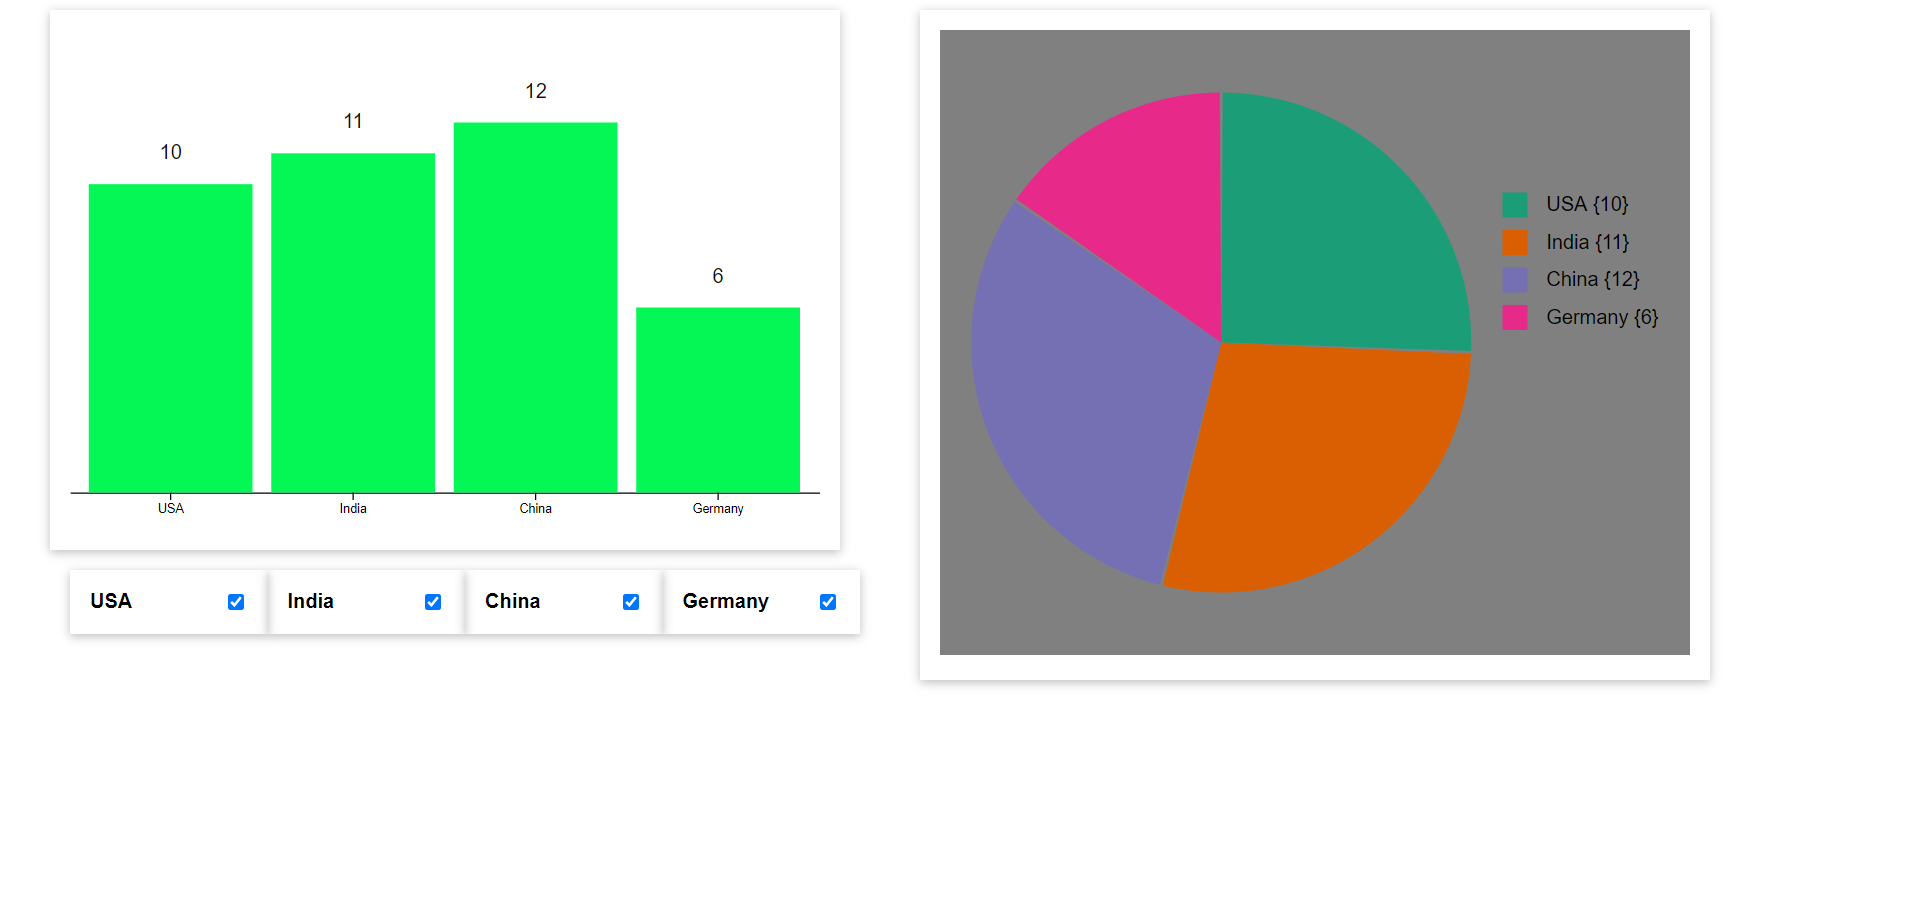
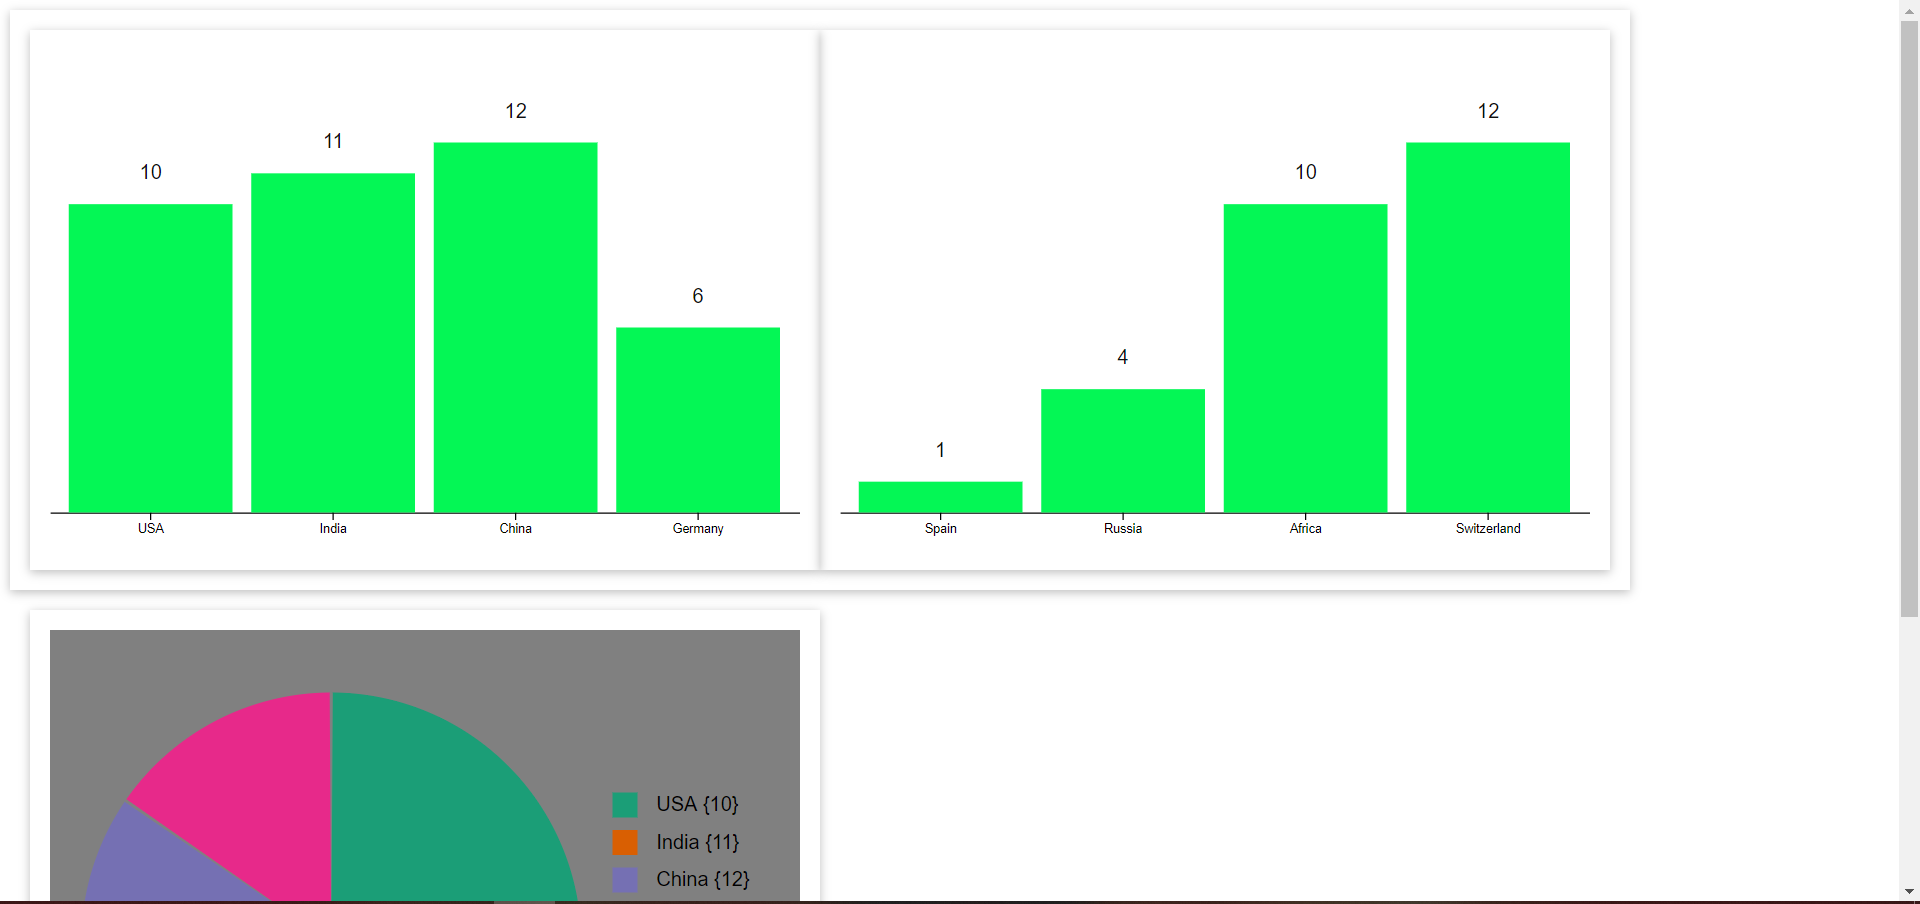
Added the ability and gained the knowlege of how to add mulitple charts to one "box". Added another dataset to se the ambigutity of the two bar charts.

diff --git a/index.js b/index.js
@@ -5,26 +5,30 @@
 document.addEventListener('DOMContentLoaded', function(e) {
      
     let TEST_DATA;
+    let NEXT_DATA;
 
     fetch("test.json")
     .then(response => response.json())
     .then(data => { 
-        console.log(data.data)
+        console.log("1st dataset");
+        console.log(data.data);
+        console.log("2nd dataset");
+        console.log(data.nextdata);
         TEST_DATA = JSON.parse(JSON.stringify(data.data));
         console.log(TEST_DATA);
+        NEXT_DATA = JSON.parse(JSON.stringify(data.nextdata));
+        console.log(NEXT_DATA);
 
     const MARGINS = {top: 20, bottom: 10};
     const CHART_WIDTH = 600;
     const CHART_HEIGHT = 400 - MARGINS.top - MARGINS.bottom;
-
-    let selectedData = TEST_DATA;
 
     const x = d3.scaleBand().rangeRound([0, CHART_WIDTH]).padding(0.1);
     const y = d3.scaleLinear().range([CHART_HEIGHT, 0]);
 
     const chartContainer = d3.select('svg')
         .attr('width', CHART_WIDTH)
-        .attr('height', CHART_HEIGHT + MARGINS.top + MARGINS.bottom);
+        .attr('height', (CHART_HEIGHT + MARGINS.top + MARGINS.bottom));
 
     x.domain(TEST_DATA.map((d) => d.region));
     y.domain([0, d3.max(TEST_DATA, d => d.value) + 3]);
@@ -37,10 +41,8 @@ document.addEventListener('DOMContentLoaded', function(e) {
          .attr('transform', `translate(0, ${CHART_HEIGHT})`)
          .attr('color', '#000000');
 
-
-    function renderChart() {
         chart.selectAll('.bar')
-         .data(selectedData, data => data.id)
+         .data(TEST_DATA, data => data.id)
          .enter()
          .append('rect')
          .classed('bar', true)
@@ -49,10 +51,8 @@ document.addEventListener('DOMContentLoaded', function(e) {
          .attr('x', (data) => x(data.region))
          .attr('y', (data) => y(data.value));
 
-        chart.selectAll('.bar').data(selectedData, data => data.id).exit().remove();
-
         chart.selectAll('.label')
-            .data(selectedData, data => data.id)
+            .data(TEST_DATA, data => data.id)
             .enter()
             .append('text')
             .text(data => data.value)
@@ -61,39 +61,49 @@ document.addEventListener('DOMContentLoaded', function(e) {
             .attr('text-anchor', 'middle')
             .classed('label', true);
 
-        chart.selectAll('.label').data(selectedData, data => data.id).exit().remove();
-    }
+    const x2 = d3.scaleBand().rangeRound([0, CHART_WIDTH]).padding(0.1);
+    const y2 = d3.scaleLinear().range([CHART_HEIGHT, 0]);
 
-    renderChart();
+    const chartContainer2 = d3.select('#chart2')
+        .append('svg')
+        .attr('width', CHART_WIDTH)
+        .attr('height', (CHART_HEIGHT + MARGINS.top + MARGINS.bottom));
 
-    let unselectedIds = [];
+    x2.domain(NEXT_DATA.map((d) => d.region));
+    y2.domain([0, d3.max(NEXT_DATA, d => d.value) + 3]);
 
-    const listItems = d3.select('#data')
-                        .select('ul')
-                        .selectAll('li')
-                        .data(TEST_DATA)
-                        .enter()
-                        .append('li');
+
+    const chart2 = chartContainer2.append('g');
+
+    chart2.append('g')
+         .call(d3.axisBottom(x2).tickSizeOuter(0))
+         .attr('transform', `translate(0, ${CHART_HEIGHT})`)
+         .attr('color', '#000000');
+
+        chart2.selectAll('.bar')
+         .data(NEXT_DATA, data => data.id)
+         .enter()
+         .append('rect')
+         .classed('bar', true)
+         .attr('width', x2.bandwidth())
+         .attr('height', data => CHART_HEIGHT - y2(data.value))
+         .attr('x', (data) => x2(data.region))
+         .attr('y', (data) => y2(data.value));
+
+        chart2.selectAll('.label')
+            .data(NEXT_DATA, data => data.id)
+            .enter()
+            .append('text')
+            .text(data => data.value)
+            .attr('x', data => x2(data.region) + x2.bandwidth() / 2)
+            .attr('y', data => y2(data.value) - 20)
+            .attr('text-anchor', 'middle')
+            .classed('label', true);
         
-    listItems.append('span').text(data => data.region);
-    listItems.append('input')
-             .attr('type', 'checkbox')
-             .attr('checked', true)
-             .on('change', (data) => {
-                if (unselectedIds.indexOf(data.id) === -1) {
-                    unselectedIds.push(data.id);
-                } else {
-                    unselectedIds = unselectedIds.filter(id => id !== data.id);
-                }
-                selectedData = TEST_DATA.filter(
-                    (d) => unselectedIds.indexOf(d.id) === -1
-                );
-                renderChart();
-             });
-     
-
+    
     let colors = d3.scaleOrdinal(d3.schemeDark2);
-    let svg = d3.select('#pie').append('svg')
+    let svg = d3.select('#pie')
+                .append('svg')
                 .attr('width', 600)
                 .attr('height', 500)
                 .style('background', 'grey');

diff --git a/index.css b/index.css
@@ -18,6 +18,12 @@ html {
     fill: rgb(15, 15, 15);
 }
 
+#barchart {
+    box-shadow: 0 2px 8px rgba(0, 0, 0, 0.26);
+    padding: 1rem;
+    display: flex;
+}
+
 #chart {
     box-shadow: 0 2px 8px rgba(0, 0, 0, 0.26);
     padding: 1rem;
@@ -25,28 +31,11 @@ html {
     width: 600px;
 }
 
-#chart,
-#data {
-    margin: 0 2rem;
-}
-
-#data ul {
-    list-style: none;
-    margin: 0;
-    padding: 1rem;
-    display: flex;
-}
-
-#data li {
-    margin-bottom: 1rem;
-    padding: 1rem;
+#chart2 {
     box-shadow: 0 2px 8px rgba(0, 0, 0, 0.26);
-    width: 126px;
+    padding: 1rem;
     display: flex;
-    justify-content: space-between;
-    align-items: center;
-    font-weight: bold;
-    display: flex;
+    width: 600px;
 }
 
 .axis {
@@ -56,5 +45,8 @@ html {
 #pie {
     box-shadow: 0 2px 8px rgba(0, 0, 0, 0.26);
     padding: 1rem;
-    width: 600px;
+}
+
+#spacing {
+    padding: 1rem;
 }

diff --git a/index.html b/index.html
@@ -12,15 +12,15 @@
 </head>
 <body>
     <div id="app">
-        <div>
+        <div id="barchart">
             <div id="chart">
                 <svg></svg>
             </div>
-            <div id="data">
-                <ul></ul>
-            </div>
+            <div id="chart2"></div>
         </div>
-        <div id="pie"></div>
+    </div>
+    <div id="spacing">
+        <div id="pie" style="height: 500px; width: 600px;"></div>
     </div>
 </body>
 </html>
